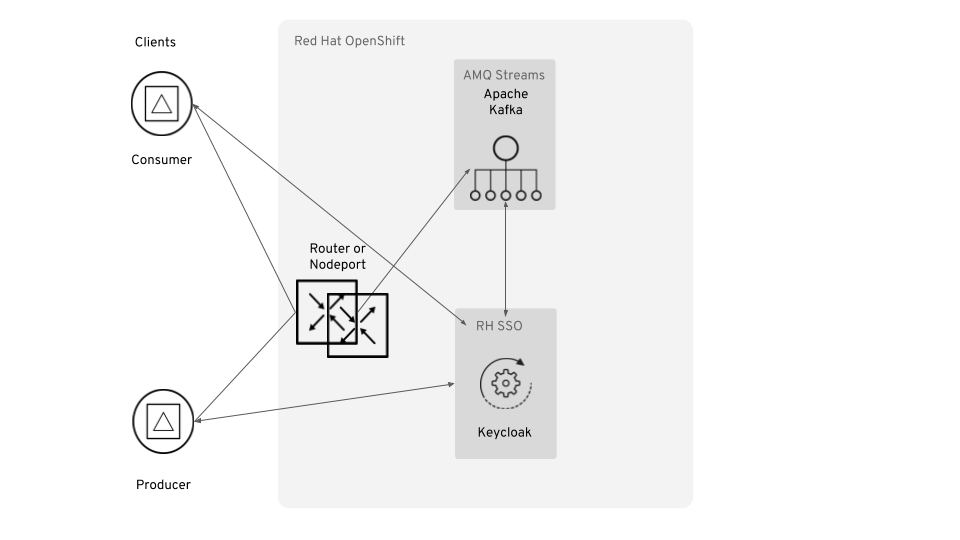
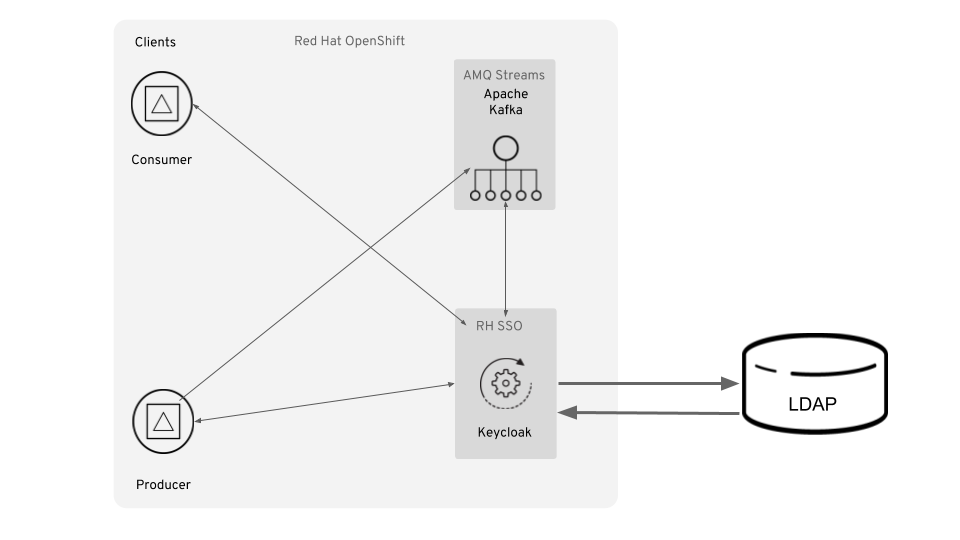
Updated image

diff --git a/README.md b/README.md
@@ -4,6 +4,8 @@ This project demonstrates how to setup and configure an AMQ Streams cluster on O
 
 ![AMQ Streams RBAC Enforcement with OAUTH2 Diagram](images/streams-oauth.png)
 
+The Authorization portion using LDAP to manage groups in available in community Strimzi, and will be updated here in the future.
+
 ## Prerequisites
 
 The following product / OS prerequisities exist:
